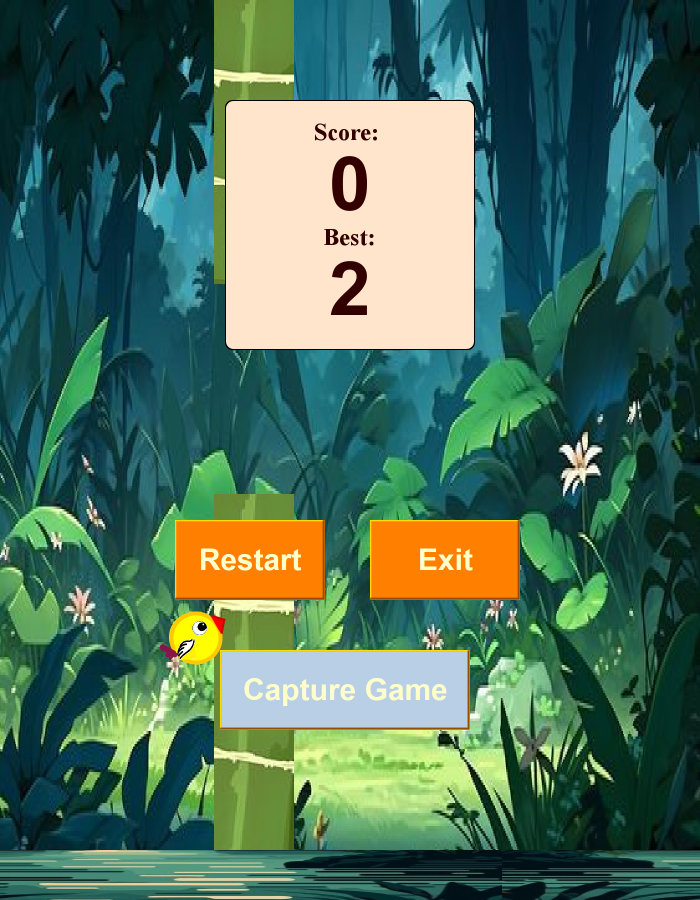
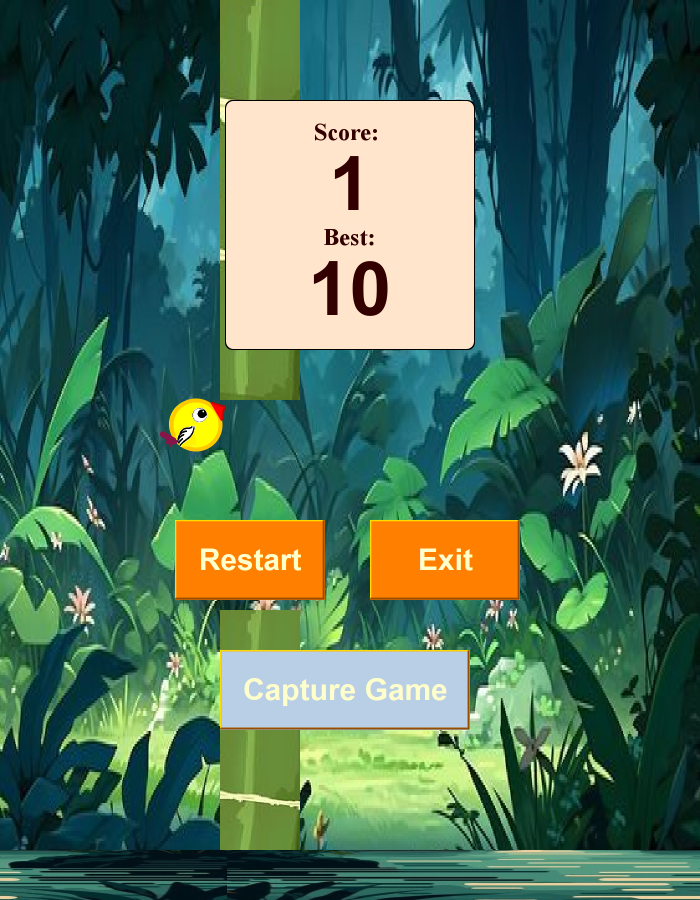
Improved game dynamics

diff --git a/src/backend/ObstacleGenerator.java b/src/backend/ObstacleGenerator.java
@@ -1,8 +1,6 @@
 package backend;
 
-import java.awt.event.ActionEvent;
-import java.awt.event.ActionListener;
-import java.util.ArrayList;
+import java.util.Iterator;
 import java.util.LinkedList;
 import java.util.Random;
 
@@ -17,90 +15,81 @@ import frontend.ScorePanel;
 public class ObstacleGenerator {
 
     private LinkedList<Obstacle> obstacles;
-	private JLayeredPane layeredPane;
 	private int  obstacleHeight, xStart, distance;
-	private Bird bird;
-	private MainFrame frame;
-	private ScorePanel scorePanel;
 	private Random random;
+	private Timer timer;
 
 	public ObstacleGenerator(JLayeredPane layeredPane, int obstacleHeight, int xStart, int distance,
 			Bird bird, MainFrame frame, ScorePanel scorePanel)// distance between obstacles
 	{ obstacles=new LinkedList<Obstacle>(); //important!!!
-		// System.out.println("This is the number!"+number);
-//	Random random=new Random();
-//	for(int i=0; i<100; i++)
-//	{int randomY=random.nextInt(obstacleHeight-50-220-70)+70;
-//	Obstacle newObstacle=new Obstacle(xStart, randomY, obstacleHeight);
-//	layeredPane.add(newObstacle, Integer.valueOf(2));
-//	newObstacle.MoveToLeft(25, 18, bird, frame);
-//	xStart-=5;
-//	//obstacles.add(newObstacle);
-//	lastlastObstacle=lastObstacle;
-//	lastObstacle=newObstacle;
-//	xStart+=distance;
-//	}
-		this.layeredPane = layeredPane;
 		this.obstacleHeight = obstacleHeight;
 		this.xStart = xStart;
 		this.distance = distance;
-		this.bird = bird;
-		this.frame = frame;
-		this.scorePanel=scorePanel;
-		
-		 //random = new Random(); 
-		 for (int i = 0; i < 20; i++)
-		 { //System.out.println("Obstacle #"+(i+1)+" X: "+xStart);
-		 //int randomY =random.nextInt(obstacleHeight - 50 - 220 - 70) + 70; 
+
+		 for (int i = 0; i < 15; i++)
+		 { 
 		 Obstacle newObstacle = new Obstacle(obstacleHeight, 25, 18, bird, frame, obstacles, distance, scorePanel); 
 		 newObstacle.setVisible(false);
 		 layeredPane.add(newObstacle,Integer.valueOf(2)); 
-		// newObstacle.MoveToLeft(25, 18, bird, frame, obstacles, distance, scorePanel); 
-		// xStart -=5; 
 		 obstacles.add(newObstacle); 
-		// xStart += distance;
+		
 		 
 		 }
+		 
+		 timer =new Timer(25, e->{
+			 int size=obstacles.size();
+				for (int it=0; it<size; it++)
+				{  Obstacle elem = obstacles.get(it);
+					elem.MoveToLeft(10, bird, frame, obstacles, distance, scorePanel);
+					
+					
+				}
+			}
+					);
 	
 	}
 
 
 
-	public void GenerateCoordinates()// distance between obstacles
-	{ // obstacles=new ArrayList<Obstacle>(); //important!!!
-		// System.out.println("This is the number!"+number);
-		
+	public void GenerateCoordinates()
+	{ 
 		random=new Random();
 		int i=0;
-	for(Obstacle elem: obstacles)
-	{
+		int size=obstacles.size();
+	for(int it=0; it<size; it++)
+	{  Obstacle elem = obstacles.get(it);
 		elem.SetX(xStart+i*distance);
 		i++;
 		int randomY =random.nextInt(obstacleHeight - 50 - 220 - 70) + 70; 
 		elem.SetY(randomY);
 		elem.SetBounds();
 		elem.setVisible(true);
-		elem.StartMoving();
+		//elem.StartMoving();
 	}
-		
-		//timerGenerate.start();
-	}
-	
-//	public void MoveObstacles()
-//	{
-//		for(Obstacle elem: obstacles)
-//		{elem.setVisible(true);
-//		elem.StartMoving();
-//		}
-//	}
 
-	public void StopObstacles() {
-		//timerGenerate.stop();
-	for(Obstacle elem: obstacles)
-	{elem.StopMoving();
-	}
+		this.StartObstacles();
+	
 	}
 	
+	public void StartObstacles() {
+		timer.start();
+	}
+	
+	
+	public void StopObstacles() {
+		timer.stop();
+	}
+	
+
+	
+//
+//	public void StopObstacles() {
+//		
+//	for(Obstacle elem: obstacles)
+//	{elem.StopMoving();
+//	}
+//	}
+//	
 	public void HideObstacles()
 	{
 		for(Obstacle elem: obstacles)
@@ -111,13 +100,6 @@ public class ObstacleGenerator {
 
 
 
-//public void MoveObstacles()
-//{int index=1;
-//	for(Obstacle elem: obstacles)
-//	{System.out.println(index);
-//	index++;
-//		elem.MoveToLeft(25, 18);
-//	}
-//}
+
 
 }

diff --git a/src/frontend/Obstacle.java b/src/frontend/Obstacle.java
@@ -24,7 +24,7 @@ public class Obstacle extends JLabel{
 		//this.setBounds(X, 0, obstacleWidth, obstacleHeight);
 		 this.setOpaque(false);
 		 obstaclePassed=false;
-		 this.SetMoveToLeft(time, distance, bird, frame, obstacles, distObstacles, scorePanel);
+		// this.SetMoveToLeft(time, distance, bird, frame, obstacles, distObstacles, scorePanel);
 	}
 	
 	 @Override
@@ -41,9 +41,10 @@ public class Obstacle extends JLabel{
 	      
 	 }
 	 
-	    public void SetMoveToLeft(int time, int distance, Bird bird, MainFrame frame, LinkedList<Obstacle> obstacles, int distObstacles, ScorePanel scorePanel)
+	    public void MoveToLeft( int distance, Bird bird, MainFrame frame, LinkedList<Obstacle> obstacles, int distObstacles, ScorePanel scorePanel)
 	    {
-	     timer=new Timer(time, e->{X-=distance;
+	    // timer=new Timer(time, e->{
+	    	X-=distance;
 	    	 this.setLocation(X, 0);
 	    	 if(X+obstacleWidth>=162 && X<230)
 	    	 {
@@ -75,17 +76,17 @@ public class Obstacle extends JLabel{
 	    		 obstacles.addLast(this);
 	    		 obstacles.removeFirst();
 	    	 }
-	    		 });
+	    		// });
 
 	    }
-	    public void StartMoving()
-	    {
-	    	timer.start();
-	    }
-	    public void StopMoving()
-	    {
-	    	timer.stop();
-	    }
+//	    public void StartMoving()
+//	    {
+//	    	timer.start();
+//	    }
+//	    public void StopMoving()
+//	    {
+//	    	timer.stop();
+//	    }
 	    
 	    public void SetX(int X)
 	    {

diff --git a/src/backend/UpdateScore.java b/src/backend/UpdateScore.java
@@ -57,28 +57,17 @@ public class UpdateScore {
     {
     	
     	ReadScore();
-        //System.out.println("Scorul citit din fisier este: " + currentScore);
     	return currentScore;
     }
     
     
 	public static void Update(int score)
 	{
-//		 try (BufferedReader reader = new BufferedReader(new FileReader("/HighestScore"))) {
-//	            String line = reader.readLine();
-//	            int currentScore = Integer.parseInt(line);
-//	            System.out.println("Scorul citit din fisier este: " + currentScore);
-//	        } catch (IOException | NumberFormatException e) {
-//	            e.printStackTrace();
-//	        }
+
   
           ReadScore();
          if(score>currentScore) WriteScore(score);
 	
-		
-		
-	
-		//BufferedReader reader = new BufferedReader(new FileReader("HighestScore")); 
 			
 		
 		

diff --git a/src/frontend/Bird.java b/src/frontend/Bird.java
@@ -118,7 +118,7 @@ public class Bird extends JLabel {
     
     public void SetFall(MainFrame frame)
     {
-    	timerFall=new Timer(25, e->{Y=Y+18;
+    	timerFall=new Timer(25, e->{Y=Y+13;
         if(Y+5+36>850) frame.StopRunning();
     	this.setLocation(X-radius-20, Y-radius-10);});
     	
@@ -216,7 +216,7 @@ public class Bird extends JLabel {
 //			// TODO Auto-generated catch block
 //			e1.printStackTrace();
 //		}
-		this.Rise(75);
+		this.Rise(85);
 	//scheduler.schedule(this::FallRotate, 50, TimeUnit.MILLISECONDS);
 	
     	this.Fall();

diff --git a/src/frontend/MainFrame.java b/src/frontend/MainFrame.java
@@ -92,7 +92,7 @@ public class MainFrame extends JFrame  implements MouseListener{
 			layeredPane.add(scorePanel, Integer.valueOf(4));
 			scorePanel.setVisible(false);
 			
-			stripe=new Stripe(0, 850, 700, 50, 25, 18);
+			stripe=new Stripe(0, 850, 700, 50, 25, 11);
 			layeredPane.add(stripe, Integer.valueOf(2));
 			stripe.setVisible(false);
 			
